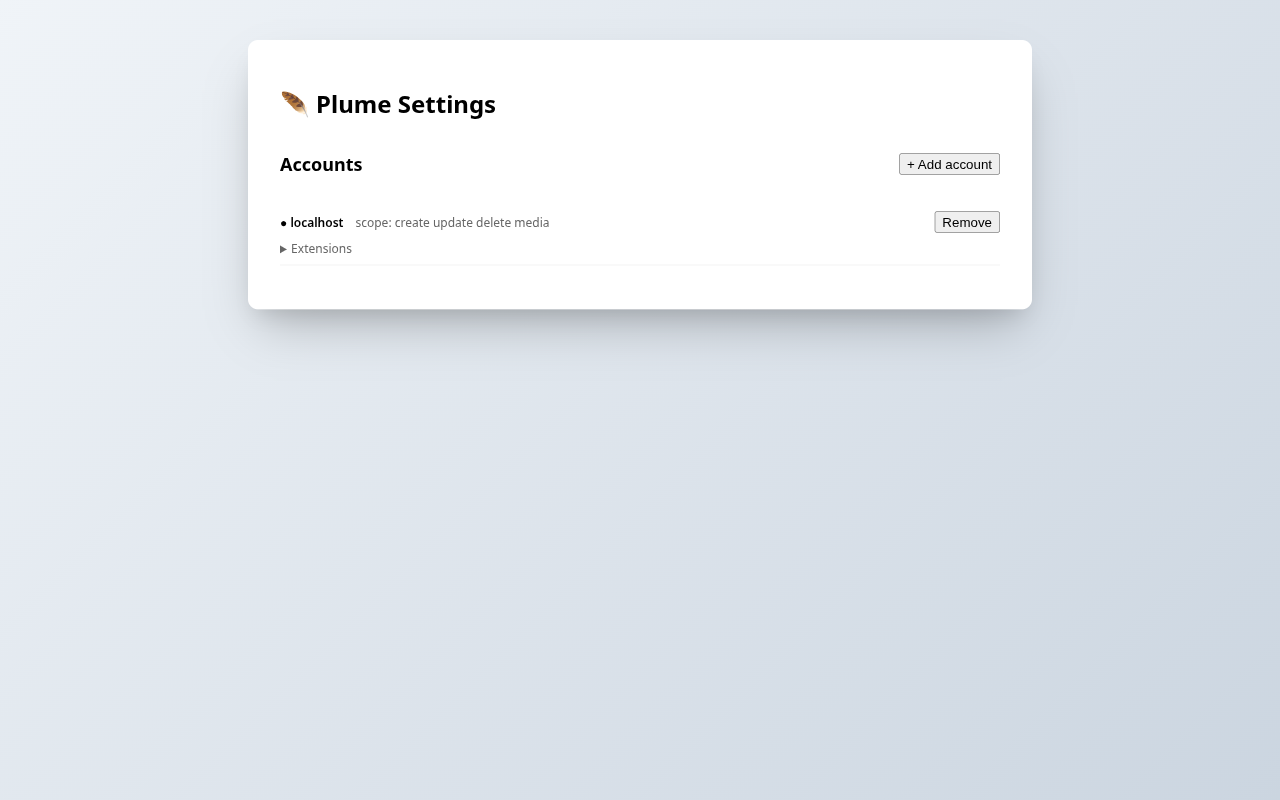
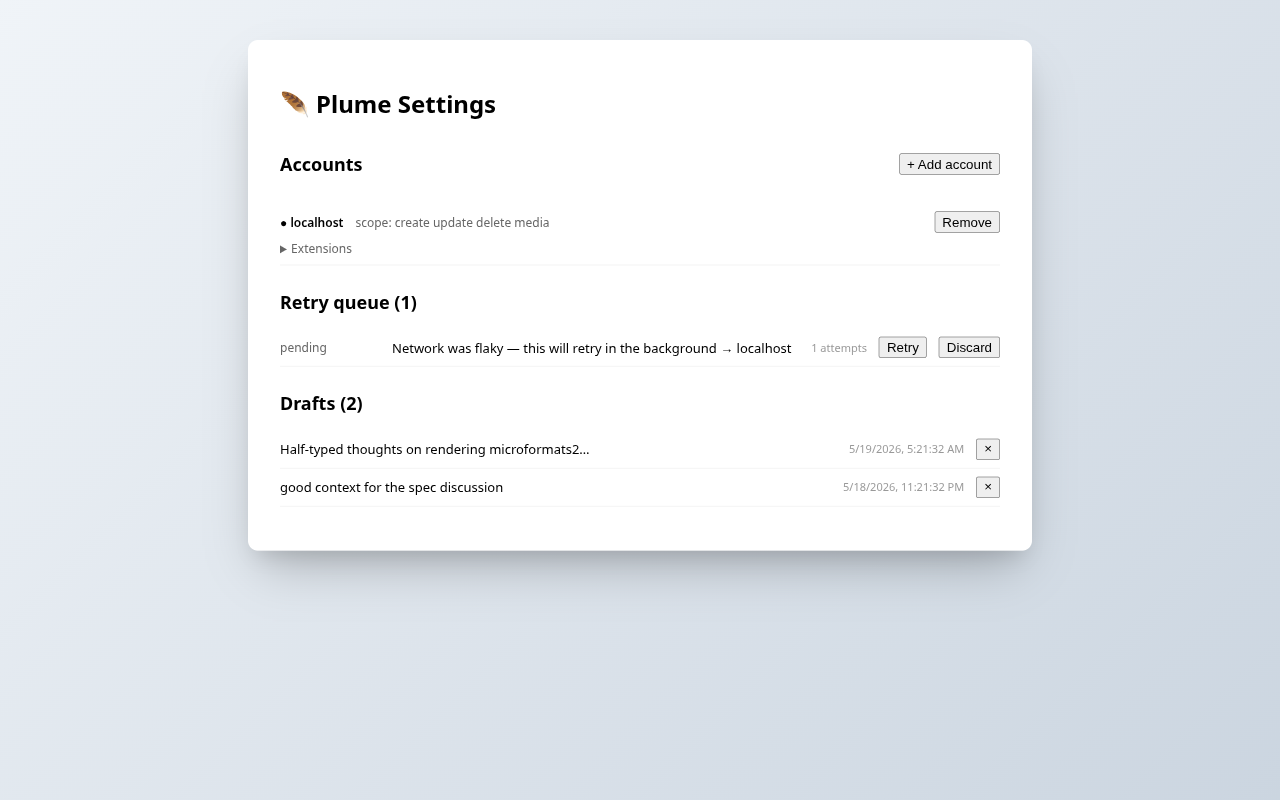
feat(screenshots): seed draft+queue items so options scene reads as lived-in

Changed region(s): [[0.1875, 0.375, 0.8125, 0.7188]]

diff --git a/scripts/capture-screenshots.ts b/scripts/capture-screenshots.ts
@@ -207,10 +207,49 @@ const scenes: Scene[] = [
     filename: "3-options-accounts.png",
     url: (id) => `chrome-extension://${id}/options.html`,
     async prepare(page) {
+      // Seed a draft + a queued item so the options page reads as lived-in
+      // (rather than showing a single sparse account row with no other state).
+      await page.evaluate(async () => {
+        const now = new Date().toISOString();
+        await chrome.storage.local.set({
+          drafts: {
+            "localhost::general": {
+              type: "note",
+              content: "Half-typed thoughts on rendering microformats2…",
+              savedAt: new Date(Date.now() - 2 * 60 * 60 * 1000).toISOString(),
+            },
+            "localhost::https://aaronpk.com/2026/04/post": {
+              type: "bookmark",
+              bookmarkOf: "https://aaronpk.com/2026/04/post",
+              name: "Aaron's IndieAuth update",
+              content: "good context for the spec discussion",
+              savedAt: new Date(Date.now() - 8 * 60 * 60 * 1000).toISOString(),
+            },
+          },
+          queue: [
+            {
+              id: "q_demo1",
+              account: "localhost",
+              createdAt: now,
+              payload: {
+                type: "note",
+                content: "Network was flaky — this will retry in the background",
+              },
+              status: "pending",
+              attempts: [{ at: now, error: "503 Service Unavailable" }],
+              nextAttempt: new Date(Date.now() + 30_000).toISOString(),
+            },
+          ],
+        });
+      });
+      // Reload so the AccountList / DraftList / QueueList re-fetch storage
+      await page.reload();
       await page.addStyleTag({ content: OPTIONS_FRAME_CSS });
       await page.waitForSelector("h1", { timeout: 5000 });
-      // Wait for the AccountList useEffect to load + render
       await page.waitForSelector('button:has-text("Remove")', { timeout: 3000 });
+      // Wait for drafts + queue sections to mount
+      await page.waitForSelector("text=Drafts (", { timeout: 3000 });
+      await page.waitForSelector("text=Retry queue (", { timeout: 3000 });
       await page.waitForTimeout(500);
     },
   },